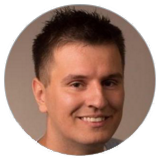
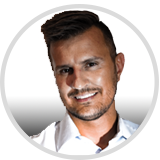
Updated CV data

diff --git a/src/app/components/skills/skills.component.html b/src/app/components/skills/skills.component.html
@@ -49,7 +49,7 @@
         <div class="other-skills">
             <h3 class="subtitle">Major Skills</h3>
             <div class="misc-skills">
-                <span class="skill-tag">Java 12</span>
+                <span class="skill-tag">Java</span>
                 <span class="skill-tag">Java EE</span>
                 <span class="skill-tag">Spring Boot</span>
                 <span class="skill-tag">WildFly</span>
